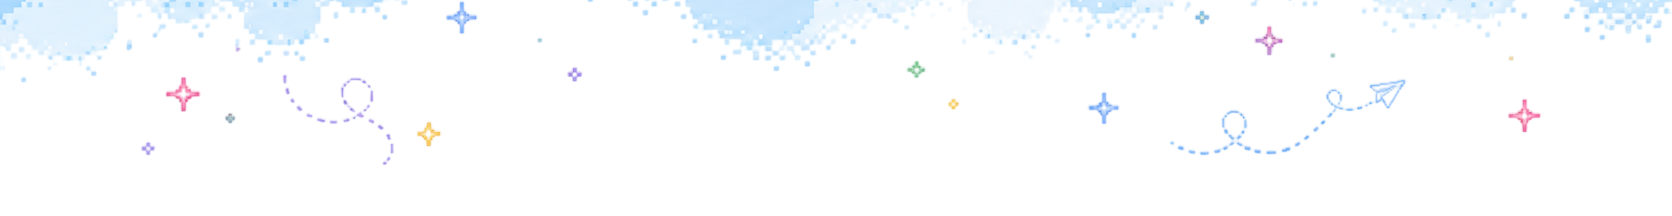
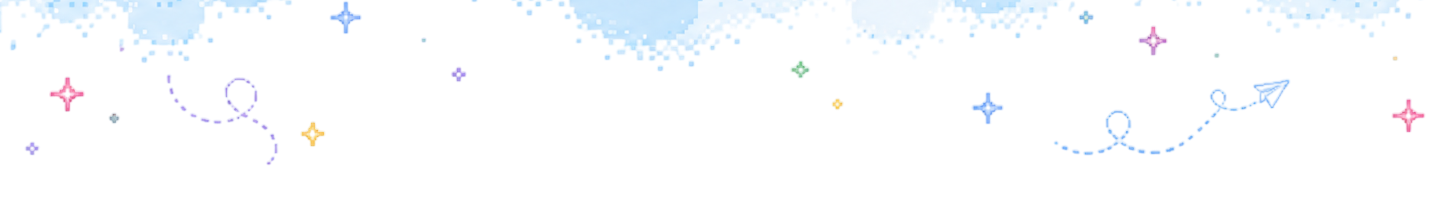
fixes

diff --git a/app/page.tsx b/app/page.tsx
@@ -9,7 +9,7 @@ export default function Home() {
       />
       <img
         src="/ChatgptImageJun12202609_19_24Pmphotoroom1.png"
-        className="w-[1672px] h-[216px] absolute -left-[116px] top-0 max-w-none"
+        className="w-full h-[216px] absolute left-0 top-0 max-w-none"
         alt="ChatGPT Image Jun 12, 2026, 09_19_24 PM-Photoroom 1"
       />
       <div className="w-[1355px] h-[285px] absolute left-[42px] top-[178px]">
@@ -17,19 +17,19 @@ export default function Home() {
           <p className="text-[#000] font-instrumentSerif text-[90px] w-[1355px] h-[117px] absolute left-0 top-0 text-center">
             Research made approachable for you
           </p>
-          <p className="text-[#535353] font-inter text-3xl w-[1077px] h-[76px] absolute left-[139px] top-[117px] text-center">
+          <p className="text-[#535353] font-googleSansFlex text-3xl w-[1077px] h-[76px] absolute left-[139px] top-[117px] text-center">
             Synthica creates a playground for high school students to conduct
             research and participate in competitions regardless of their levels.
           </p>
           <div className="rounded-[50px] bg-[#B1DBFE] w-[177px] h-[60px] absolute left-[589px] top-[225px]"></div>
-          <p className="text-[#244A73] font-inter text-2xl w-32 h-[30px] absolute left-[614px] top-60 text-center">
+          <p className="text-[#244A73] font-googleSansFlex text-2xl w-32 h-[30px] absolute left-[614px] top-60 text-center">
             Join us now
           </p>
         </div>
       </div>
       <div className="rounded-[20px] bg-[rgba(188,188,188,0.10)] w-[210px] h-[70px] absolute left-[34px] top-[55px]"></div>
       <div className="w-44 h-[50px] absolute left-[51px] top-[65px]">
-        <p className="text-[#000] font-inter text-3xl w-[116px] h-[38px] absolute left-[60px] top-1.5">
+        <p className="text-[#000] font-googleSansFlex text-3xl w-[116px] h-[38px] absolute left-[60px] top-1.5">
           Synthica
         </p>
         <img
@@ -40,26 +40,26 @@ export default function Home() {
       </div>
       <div className="rounded-[20px] bg-[rgba(188,188,188,0.10)] w-[537px] h-[70px] absolute left-[869px] top-[55px]"></div>
       <div className="w-[437px] h-[25px] absolute left-[919px] top-[77px]">
-        <p className="text-[#4B4B4B] font-inter text-xl w-[55px] h-[25px] absolute left-0 top-0">
+        <p className="text-[#4B4B4B] font-googleSansFlex text-xl w-[55px] h-[25px] absolute left-0 top-0">
           Home
         </p>
-        <p className="text-[#4B4B4B] font-inter text-xl w-14 h-[25px] absolute left-[71px] top-0">
+        <p className="text-[#4B4B4B] font-googleSansFlex text-xl w-14 h-[25px] absolute left-[71px] top-0">
           About
         </p>
-        <p className="text-[#4B4B4B] font-inter text-xl w-[68px] h-[25px] absolute left-[143px] top-0">
+        <p className="text-[#4B4B4B] font-googleSansFlex text-xl w-[68px] h-[25px] absolute left-[143px] top-0">
           Journal
         </p>
-        <p className="text-[#4B4B4B] font-inter text-xl w-[78px] h-[25px] absolute left-[227px] top-0">
+        <p className="text-[#4B4B4B] font-googleSansFlex text-xl w-[78px] h-[25px] absolute left-[227px] top-0">
           Program
         </p>
-        <p className="text-[#4B4B4B] font-inter text-xl w-[116px] h-[25px] absolute left-[321px] top-0">
+        <p className="text-[#4B4B4B] font-googleSansFlex text-xl w-[116px] h-[25px] absolute left-[321px] top-0">
           Work with us
         </p>
       </div>
-      <p className="text-[#4B4B4B] font-inter text-[50px] bg-linear-[90deg,#B0DBFD0%,#0070C8100%] w-[1045px] h-[63px] absolute left-[209px] top-[960px]">
+      <p className="text-[#4B4B4B] font-googleSansFlex text-[50px] bg-linear-[90deg,#B0DBFD0%,#0070C8100%] w-[1045px] h-[63px] absolute left-[209px] top-[960px]">
         At Synthica, we kickstart your Research Career.
       </p>
-      <p className="text-[#000] font-inter text-[50px] font-medium bg-linear-[90deg,#B0DBFD0%,#0070C84.81%] w-[561px] h-[126px] absolute left-[67px] top-[1856px]">
+      <p className="text-[#000] font-googleSansFlex text-[50px] font-medium bg-linear-[90deg,#B0DBFD0%,#0070C84.81%] w-[561px] h-[126px] absolute left-[67px] top-[1856px]">
         Learn how we work in 4 simple steps.
       </p>
       <div className="rounded-[50px] bg-[#F4F5F7] w-[1305px] h-[706px] absolute left-[67px] top-[1076px]"></div>
@@ -71,10 +71,10 @@ export default function Home() {
         alt="Rectangle 9"
       />
       <div className="w-[516px] h-[88px] absolute left-[714px] top-[1199px]">
-        <p className="text-[#000] font-inter text-[50px] font-medium w-[141px] h-[63px] absolute left-[182px] top-0">
-          1600+
+        <p className="text-[#000] font-googleSansFlex text-[50px] font-medium w-[173px] h-[63px] absolute left-[182px] top-0">
+          16000+
         </p>
-        <p className="text-[#000] font-inter text-2xl w-[516px] h-[30px] absolute left-0 top-[58px]">
+        <p className="text-[#000] font-googleSansFlex text-2xl w-[516px] h-[30px] absolute left-0 top-[58px]">
           Researchers as members of Synthica worldwide
         </p>
       </div>
@@ -168,12 +168,12 @@ export default function Home() {
             <div className="bg-[#FFF] w-0.5 h-0.5 absolute left-3.5 top-2"></div>
           </div>
         </div>
-        <p className="text-[#244A73] font-inter text-lg font-medium w-[98px] h-[23px] absolute left-[21px] top-0">
+        <p className="text-[#244A73] font-googleSansFlex text-lg font-medium w-[98px] h-[23px] absolute left-[21px] top-0">
           Community
         </p>
       </div>
       <div className="w-[139px] h-[23px] absolute left-[984px] top-[1497px]">
-        <p className="text-[#244A73] font-inter text-lg font-medium w-[118px] h-[23px] absolute left-[21px] top-0">
+        <p className="text-[#244A73] font-googleSansFlex text-lg font-medium w-[118px] h-[23px] absolute left-[21px] top-0">
           Opportunities
         </p>
         <div className="w-4 h-4 absolute left-0 top-1">
@@ -209,7 +209,7 @@ export default function Home() {
         </div>
       </div>
       <div className="w-[135px] h-[23px] absolute left-[920px] top-[1554px]">
-        <p className="text-[#244A73] font-inter text-lg font-medium w-[114px] h-[23px] absolute left-[21px] top-0">
+        <p className="text-[#244A73] font-googleSansFlex text-lg font-medium w-[114px] h-[23px] absolute left-[21px] top-0">
           Competitions
         </p>
         <div className="w-4 h-4 absolute left-0 top-1">
@@ -253,30 +253,30 @@ export default function Home() {
           </div>
         </div>
       </div>
-      <p className="text-[#4B4B4B] font-inter text-2xl w-[496px] h-[60px] absolute left-[67px] top-[1990px]">
+      <p className="text-[#4B4B4B] font-googleSansFlex text-2xl w-[496px] h-[60px] absolute left-[67px] top-[1990px]">
         Learn how Synthica works and become a part of us.
       </p>
       <div className="w-[50px] h-[50px] absolute left-[589px] top-[1856px]">
         <div className="rounded-[50px] bg-[#244A73] w-[50px] h-[50px] absolute left-0 top-0"></div>
-        <p className="text-[#FFF] font-inter text-2xl w-[9px] h-[30px] absolute left-5 top-2.5">
+        <p className="text-[#FFF] font-googleSansFlex text-2xl w-[9px] h-[30px] absolute left-5 top-2.5">
           1
         </p>
       </div>
       <div className="w-[50px] h-[50px] absolute left-[589px] top-[2441px]">
         <div className="rounded-[50px] bg-[#244A73] w-[50px] h-[50px] absolute left-0 top-0"></div>
-        <p className="text-[#FFF] font-inter text-2xl w-[13px] h-[30px] absolute left-[18px] top-2.5 text-center">
+        <p className="text-[#FFF] font-googleSansFlex text-2xl w-[13px] h-[30px] absolute left-[18px] top-2.5 text-center">
           2
         </p>
       </div>
       <div className="w-[50px] h-[50px] absolute left-[589px] top-[3026px]">
         <div className="rounded-[50px] bg-[#244A73] w-[50px] h-[50px] absolute left-0 top-0"></div>
-        <p className="text-[#FFF] font-inter text-2xl w-[13px] h-[30px] absolute left-[18px] top-2.5 text-center">
+        <p className="text-[#FFF] font-googleSansFlex text-2xl w-[13px] h-[30px] absolute left-[18px] top-2.5 text-center">
           3
         </p>
       </div>
       <div className="w-[50px] h-[50px] absolute left-[589px] top-[3611px]">
         <div className="rounded-[50px] bg-[#244A73] w-[50px] h-[50px] absolute left-0 top-0"></div>
-        <p className="text-[#FFF] font-inter text-2xl w-[15px] h-[30px] absolute left-[17px] top-2.5 text-center">
+        <p className="text-[#FFF] font-googleSansFlex text-2xl w-[15px] h-[30px] absolute left-[17px] top-2.5 text-center">
           4
         </p>
       </div>
@@ -300,7 +300,7 @@ export default function Home() {
           className="rounded-[20px] w-[514px] h-[292px] absolute left-24 top-[121px] max-w-none"
           alt="Rectangle 25"
         />
-        <p className="text-[#000] font-inter text-xl w-[630px] h-[50px] absolute left-[38px] top-[33px] text-center">
+        <p className="text-[#000] font-googleSansFlex text-xl w-[630px] h-[50px] absolute left-[38px] top-[33px] text-center">
           Become part of our global network of student researchers by joining
           our Discord server and connecting with peers.
         </p>
@@ -352,7 +352,7 @@ export default function Home() {
               <div className="bg-[#FFF] w-1 h-1 absolute left-[26px] top-2"></div>
             </div>
           </div>
-          <p className="text-[#000] font-inter text-3xl w-[406px] h-[38px] absolute left-[41px] top-0 text-center">
+          <p className="text-[#000] font-googleSansFlex text-3xl w-[406px] h-[38px] absolute left-[41px] top-0 text-center">
             Join our Research Community
           </p>
         </div>
@@ -376,7 +376,7 @@ export default function Home() {
           className="rounded-[20px] w-[514px] h-[292px] absolute left-24 top-[121px] max-w-none"
           alt="Rectangle 25"
         />
-        <p className="text-[#000] font-inter text-xl w-[630px] h-[50px] absolute left-[38px] top-[31px] text-center">
+        <p className="text-[#000] font-googleSansFlex text-xl w-[630px] h-[50px] absolute left-[38px] top-[31px] text-center">
           Access our high-quality research curriculum and learn the foundations
           of academic research at your own pace.
         </p>
@@ -430,7 +430,7 @@ export default function Home() {
               <div className="bg-[#FFF] w-1 h-1 absolute left-[26px] top-[26px]"></div>
             </div>
           </div>
-          <p className="text-[#000] font-inter text-3xl w-[455px] h-[38px] absolute left-[41px] top-0">
+          <p className="text-[#000] font-googleSansFlex text-3xl w-[455px] h-[38px] absolute left-[41px] top-0">
             Learn from our Expert Curriculum
           </p>
         </div>
@@ -454,13 +454,13 @@ export default function Home() {
           className="rounded-[20px] w-[514px] h-[292px] absolute left-24 top-[121px] max-w-none"
           alt="Rectangle 25"
         />
-        <p className="text-[#000] font-inter text-xl w-[630px] h-[50px] absolute left-[41px] top-10 text-center">
+        <p className="text-[#000] font-googleSansFlex text-xl w-[630px] h-[50px] absolute left-[41px] top-10 text-center">
           Apply what you've learned to create your own original research
           project, with guidance from our community resources.
         </p>
         <div className="rounded-[30px] bg-[#FFF] shadow-[02px2px0rgba(0,0,0,0.25)] w-[600px] h-[90px] absolute left-[53px] top-[382px]"></div>
         <div className="w-[454px] h-[38px] absolute left-[126px] top-[408px]">
-          <p className="text-[#000] font-inter text-3xl w-[420px] h-[38px] absolute left-[34px] top-0">
+          <p className="text-[#000] font-googleSansFlex text-3xl w-[420px] h-[38px] absolute left-[34px] top-0">
             Develop your Research Project
           </p>
           <div className="w-[30px] h-[30px] absolute left-0 top-1 overflow-hidden">
@@ -515,7 +515,7 @@ export default function Home() {
           className="rounded-[20px] w-[514px] h-[292px] absolute left-24 top-[121px] max-w-none"
           alt="Rectangle 25"
         />
-        <p className="text-[#000] font-inter text-xl w-[630px] h-[50px] absolute left-[38px] top-[33px] text-center">
+        <p className="text-[#000] font-googleSansFlex text-xl w-[630px] h-[50px] absolute left-[38px] top-[33px] text-center">
           Showcase your findings at our international research competitions and
           earn recognition for your work.
         </p>
@@ -550,16 +550,16 @@ export default function Home() {
               <div className="bg-[#000] w-1 h-1 absolute left-[26px] top-[11px]"></div>
             </div>
           </div>
-          <p className="text-[#000] font-inter text-3xl w-[367px] h-[38px] absolute left-[38px] top-0">
+          <p className="text-[#000] font-googleSansFlex text-3xl w-[367px] h-[38px] absolute left-[38px] top-0">
             Participate in Competitions
           </p>
         </div>
       </div>
       <div className="w-full h-[714px] absolute left-0.5 top-[5330px]">
-        <div className="flex py-px px-14 flex-col justify-center items-start border-t border-t-[#000] border-b border-b-[#000] bg-[#F4F5F7] w-full absolute left-0 top-0">
+        <div className="flex py-px px-14 flex-col justify-center items-start border-t border-t-[#000] border-b border-b-[#000] bg-[#FFF] w-full absolute left-0 top-0">
           <div className="border-r border-r-[#000] border-l border-l-[#000] w-full h-[55px]"></div>
         </div>
-        <div className="flex py-px px-14 flex-col justify-center items-start border-t border-t-[#000] border-b border-b-[#000] bg-[#F4F5F7] w-full absolute left-0 top-14">
+        <div className="flex py-px px-14 flex-col justify-center items-start border-t border-t-[#000] border-b border-b-[#000] bg-[#FFF] w-full absolute left-0 top-14">
           <div className="flex pr-px flex-col items-start border-r border-r-[#000] border-l border-l-[#000] w-full h-[600px]">
             <div className="flex flex-col justify-center items-start w-full">
               <img
@@ -570,9 +570,9 @@ export default function Home() {
             </div>
           </div>
         </div>
-        <div className="flex py-px px-14 flex-col justify-center items-start border-t border-t-[#000] border-b border-b-[#000] bg-[#F4F5F7] w-full absolute left-0 top-[657px]">
+        <div className="flex py-px px-14 flex-col justify-center items-start border-t border-t-[#000] border-b border-b-[#000] bg-[#FFF] w-full absolute left-0 top-[657px]">
           <div className="flex pt-0 pr-[708px] pb-0 pl-[18px] items-center gap-0.5 border-r border-r-[#000] border-l border-l-[#000] w-full h-[55px]">
-            <p className="text-[#000] font-inter text-[21px] font-medium leading-[62.4px] w-[586px] h-[63px]">
+            <p className="text-[#000] font-googleSansFlex text-[21px] font-medium leading-[62.4px] w-[586px] h-[63px]">
               © 2026 Synthica. All rights reserved. Platform developed with{" "}
             </p>
             <div className="w-3.5 h-3.5 relative">
@@ -627,7 +627,7 @@ export default function Home() {
         </div>
       </div>
       <div className="rounded-[50px] bg-[#244A73] w-[177px] h-[60px] absolute left-[1019px] top-[5623px]"></div>
-      <p className="text-[#FFF] font-inter text-2xl w-32 h-[30px] absolute left-[1044px] top-[5638px] text-center">
+      <p className="text-[#FFF] font-googleSansFlex text-2xl w-32 h-[30px] absolute left-[1044px] top-[5638px] text-center">
         Join us now
       </p>
       <div className="flex items-start gap-[59px] w-[1305px] absolute left-[67px] top-[4262px]">
@@ -662,7 +662,7 @@ export default function Home() {
                 </div>
               </div>
               <div className="flex pt-0 pr-[151px] pb-0.5 pl-0 items-center w-[339px] h-5">
-                <p className="text-[#131313] font-inter text-[23px] leading-5 w-[188px] h-5">
+                <p className="text-[#131313] font-googleSansFlex text-[23px] leading-5 w-[188px] h-5">
                   Zero money spent
                 </p>
               </div>
@@ -700,7 +700,7 @@ export default function Home() {
                 </div>
               </div>
               <div className="flex pt-0 pr-1.5 pb-0.5 pl-0 items-center w-[339px] h-5">
-                <p className="text-[#131313] font-inter text-[23px] leading-5 w-[333px] h-5">
+                <p className="text-[#131313] font-googleSansFlex text-[23px] leading-5 w-[333px] h-5">
                   Open to all high school students
                 </p>
               </div>
@@ -738,7 +738,7 @@ export default function Home() {
                 </div>
               </div>
               <div className="flex pb-0.5 justify-end items-center w-[339px] h-5">
-                <p className="text-[#131313] font-inter text-[23px] leading-5 w-[349px] h-5">
+                <p className="text-[#131313] font-googleSansFlex text-[23px] leading-5 w-[349px] h-5">
                   Research Leadership Opportunity
                 </p>
               </div>
@@ -746,13 +746,13 @@ export default function Home() {
           </div>
         </div>
       </div>
-      <p className="flex flex-col justify-center font-inter text-[42px] leading-[57.6px] bg-linear-[90deg,#B0DBFD0%,#0070C851.44%] text-[#4B4B4B] w-[724px] h-[58px] absolute left-[358px] top-[4180px] text-center">
+      <p className="flex flex-col justify-center font-googleSansFlex text-[42px] leading-[57.6px] bg-linear-[90deg,#B0DBFD0%,#0070C851.44%] text-[#4B4B4B] w-[724px] h-[58px] absolute left-[358px] top-[4180px] text-center">
         Zero cost. Non-selective Program.
       </p>
       <div className="flex py-[100px] px-[120px] justify-center items-center bg-[#FFF] w-full h-[832px] absolute left-0 top-[4466px] overflow-hidden">
         <div className="flex flex-col justify-end items-start gap-[21px] shrink-0 w-[1200px] h-[632px]">
           <button className="cursor-pointer text-nowrap flex pt-6 pr-[263px] pb-6 pl-[263px] justify-center items-center shrink-0 w-[1200px] h-28">
-            <p className="flex flex-col justify-center shrink-0 text-[#000] font-inter text-[49px] font-medium leading-[62.4px] w-[674px] h-16 text-center">
+            <p className="flex flex-col justify-center shrink-0 text-[#000] font-googleSansFlex text-[49px] font-medium leading-[62.4px] w-[674px] h-16 text-center">
               Frequently Asked Questions
             </p>
           </button>
@@ -760,7 +760,7 @@ export default function Home() {
             <div className="flex pt-3 flex-col justify-end items-end gap-4 w-[565px] h-[484px] absolute left-0 top-[15px]">
               <div className="rounded-[20px] border border-[#D1D1D1] bg-[#FFF] w-[565px] h-[110px] relative">
                 <div className="inline-flex pt-0 pr-[31px] pb-0 pl-[23px] items-center gap-[277px] w-[561px] h-[30px] absolute left-1 top-10">
-                  <p className="flex flex-col justify-center text-[#1E1E1E] font-inter text-[19px] leading-[30px] w-[206px] h-[30px] absolute left-[23px] top-0">
+                  <p className="flex flex-col justify-center text-[#1E1E1E] font-googleSansFlex text-[19px] leading-[30px] w-[206px] h-[30px] absolute left-[23px] top-0">
                     What is Synthica?
                   </p>
                   <div className="w-6 h-6 absolute left-[506px] top-[3px] overflow-hidden">
@@ -772,7 +772,7 @@ export default function Home() {
               </div>
               <div className="rounded-[20px] border border-[#D1D1D1] bg-[#FFF] w-[561px] h-[110px] relative">
                 <div className="inline-flex pt-0 pr-[29px] pb-0 pl-[17px] items-center gap-[93px] w-[557px] h-[30px] absolute left-1 top-10">
-                  <p className="flex flex-col justify-center text-[#1E1E1E] font-inter text-[19px] leading-[30px] w-[394px] h-[30px] absolute left-[17px] top-0">
+                  <p className="flex flex-col justify-center text-[#1E1E1E] font-googleSansFlex text-[19px] leading-[30px] w-[394px] h-[30px] absolute left-[17px] top-0">
                     How much does it cost to join Synthica?
                   </p>
                   <div className="w-6 h-6 absolute left-[504px] top-[3px] overflow-hidden">
@@ -784,7 +784,7 @@ export default function Home() {
               </div>
               <div className="rounded-[20px] border border-[#D1D1D1] bg-[#FFF] w-[565px] h-[110px] relative">
                 <div className="inline-flex pt-0 pr-7 pb-0 pl-5 items-center gap-[151px] w-[561px] h-[30px] absolute left-1 top-10">
-                  <p className="flex flex-col justify-center text-[#1E1E1E] font-inter text-[19px] leading-[30px] w-[338px] h-[30px] absolute left-5 top-0">
+                  <p className="flex flex-col justify-center text-[#1E1E1E] font-googleSansFlex text-[19px] leading-[30px] w-[338px] h-[30px] absolute left-5 top-0">
                     How can I join the community?
                   </p>
                   <div className="w-6 h-6 absolute left-[509px] top-[3px] overflow-hidden">
@@ -796,7 +796,7 @@ export default function Home() {
               </div>
               <div className="rounded-[20px] border border-[#D1D1D1] bg-[#FFF] w-[565px] h-[110px] relative">
                 <div className="inline-flex pt-0 pr-[29px] pb-0 pl-[17px] items-center gap-[118px] w-[561px] h-[30px] absolute left-1 top-10">
-                  <p className="flex flex-col justify-center text-[#1E1E1E] font-inter text-[19px] leading-[30px] w-[373px] h-[30px] absolute left-[17px] top-0">
+                  <p className="flex flex-col justify-center text-[#1E1E1E] font-googleSansFlex text-[19px] leading-[30px] w-[373px] h-[30px] absolute left-[17px] top-0">
                     What is the Global Research Challenge?
                   </p>
                   <div className="w-6 h-6 absolute left-[508px] top-[3px] overflow-hidden">
@@ -810,7 +810,7 @@ export default function Home() {
             <div className="inline-flex pt-0 pr-0 pb-0.5 pl-px flex-col items-end gap-4 w-[565px] h-[330px] absolute left-[636px] top-[59px]">
               <div className="rounded-[20px] border border-[#D1D1D1] bg-[#FFF] w-[565px] h-[110px] absolute left-[5px] -top-[34px]">
                 <button className="cursor-pointer text-nowrap inline-flex pt-0 pr-[23px] pb-0 pl-[26px] justify-center items-center gap-[152px] w-[561px] h-[30px] absolute left-1 top-10">
-                  <p className="flex flex-col justify-center text-[#1E1E1E] font-inter text-[19px] leading-[30px] w-[336px] h-[30px] absolute left-[26px] top-0">
+                  <p className="flex flex-col justify-center text-[#1E1E1E] font-googleSansFlex text-[19px] leading-[30px] w-[336px] h-[30px] absolute left-[26px] top-0">
                     Do I need prior research experience?
                   </p>
                   <div className="w-6 h-6 absolute left-[514px] top-[3px] overflow-hidden">
@@ -822,7 +822,7 @@ export default function Home() {
               </div>
               <div className="rounded-[20px] border border-[#D1D1D1] bg-[#FFF] w-[565px] h-[110px] absolute left-[5px] top-[92px]">
                 <div className="inline-flex pt-0 pr-[23px] pb-0 pl-[27px] justify-end items-center gap-[184px] w-[561px] h-[30px] absolute left-1 top-10">
-                  <p className="flex flex-col justify-center text-[#1E1E1E] font-inter text-[19px] leading-[30px] w-[303px] h-[30px] absolute left-[27px] top-0">
+                  <p className="flex flex-col justify-center text-[#1E1E1E] font-googleSansFlex text-[19px] leading-[30px] w-[303px] h-[30px] absolute left-[27px] top-0">
                     More faq
                   </p>
                   <div className="w-6 h-6 absolute left-[514px] top-[3px] overflow-hidden">
@@ -834,7 +834,7 @@ export default function Home() {
               </div>
               <div className="rounded-[20px] border border-[#D1D1D1] bg-[#FFF] w-[569px] h-[110px] absolute left-px top-[218px]">
                 <div className="inline-flex pt-0 pr-5 pb-0 pl-8 justify-end items-center gap-[294px] w-[565px] h-[30px] absolute left-1 top-10">
-                  <p className="flex flex-col justify-center text-[#1E1E1E] font-inter text-[19px] leading-[30px] w-[195px] h-[30px] absolute left-8 top-0">
+                  <p className="flex flex-col justify-center text-[#1E1E1E] font-googleSansFlex text-[19px] leading-[30px] w-[195px] h-[30px] absolute left-8 top-0">
                     more faq
                   </p>
                   <div className="w-6 h-6 absolute left-[521px] top-[3px] overflow-hidden">

diff --git a/app/layout.tsx b/app/layout.tsx
@@ -1,10 +1,10 @@
-import { Inter } from "next/font/google";
+import { Google_Sans_Flex } from "next/font/google";
 import "./globals.css";
 
-const inter = Inter({
+const googleSansFlex = Google_Sans_Flex({
   subsets: ["latin"],
-  weight: ["400", "500"],
-  variable: "--font-inter",
+  weight: ["500"],
+  variable: "--font-google-sans-flex",
 });
 
 export default function RootLayout({
@@ -13,7 +13,7 @@ export default function RootLayout({
   children: React.ReactNode;
 }) {
   return (
-    <html lang="en" className={`${inter.variable}`}>
+    <html lang="en" className={`${googleSansFlex.variable}`}>
       <body>{children}</body>
     </html>
   );

diff --git a/app/globals.css b/app/globals.css
@@ -1,3 +1,5 @@
-@tailwind base;
-@tailwind components;
-@tailwind utilities;
+@import "tailwindcss";
+
+@theme inline {
+  --font-googleSansFlex: var(--font-google-sans-flex);
+}

diff --git a/tailwind.config.ts b/tailwind.config.ts
@@ -8,6 +8,7 @@ export default {
     extend: {
       fontFamily: {
         inter: ["--font-inter"],
+        googleSansFlex: ["--font-google-sans-flex"],
       },
     },
   },